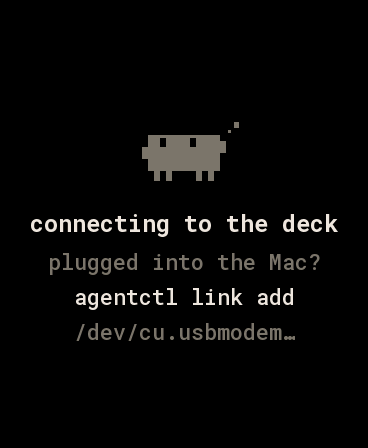
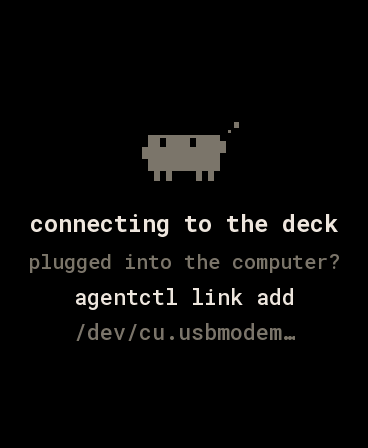
4" tiles: full titles beside the ladder; English sample phases; "the computer"
- The subagent ladder takes only its minis' width and the text beside it
  less padding, so 12-character titles ("checkout-api") fit.
- A workflow line too long for the tile falls back to its phase
  ("Search 2/5"); the bar shows where the run is.
- Boards say "the computer", not "the Mac", in their setup notices (the
  deck runs on Windows too).
- Sample workflow phases in tests, renders and docs are English (Search,
  Verify, Report, Critic).

Changed region(s): [[0.0598, 0.5625, 0.9266, 0.625]]

diff --git a/clients/flutter/agents_ui/test/agents_app_test.dart b/clients/flutter/agents_ui/test/agents_app_test.dart
@@ -617,7 +617,7 @@ void main() {
       },
       {
         'id': 'w2',
-        'title': 'find:auth · Suche',
+        'title': 'find:auth · Search',
         'type': 'workflow',
         'tool': 'Read',
       },
@@ -633,7 +633,7 @@ void main() {
     expect(find.text('workflow · 2 agents'), findsOneWidget);
     // In the crew list a workflow agent's phase is its kind.
     expect(find.text('find:auth'), findsOneWidget);
-    expect(find.text('Suche'), findsOneWidget);
+    expect(find.text('Search'), findsOneWidget);
     expect(tester.takeException(), isNull);
   });
 
@@ -718,13 +718,13 @@ void main() {
       'name': 'bughunt',
       'phases': [
         {'title': 'Scout', 'running': 0, 'done': 1},
-        {'title': 'Suche', 'running': 2, 'done': 3},
+        {'title': 'Search', 'running': 2, 'done': 3},
         {'title': 'Jury', 'running': 0, 'done': 0},
       ],
     };
     final a = Agent.fromJson(api);
     expect(a.workflow?.current, 1);
-    expect(a.workflow?.line, 'Suche 3/5 · 2 of 3');
+    expect(a.workflow?.line, 'Search 3/5 · 2 of 3');
     await _pumpApp(tester, FakeAgentsSource.fromState(j));
     expect(find.byKey(const Key('agent-tile-workflow')), findsOneWidget);
     // The segments have height: a bar, not a line of nothing.
@@ -734,7 +734,7 @@ void main() {
     );
     expect(seg, findsNWidgets(3));
     expect(tester.getSize(seg.first).height, greaterThan(0));
-    expect(find.text('Suche 3/5 · 2 of 3'), findsOneWidget);
+    expect(find.text('Search 3/5 · 2 of 3'), findsOneWidget);
     await _open(tester, 'checkout-api');
     expect(find.byKey(const Key('agent-workflow')), findsOneWidget);
     expect(find.text('Jury 0/0'), findsOneWidget);

diff --git a/clients/flutter/agents_ui/lib/src/agents_model.dart b/clients/flutter/agents_ui/lib/src/agents_model.dart
@@ -147,7 +147,7 @@ class AgentWorkflow {
     return i;
   }
 
-  /// "Suche 5/5 · 2 of 6": the tile's line while the run is on.
+  /// "Search 5/5 · 2 of 6": the tile's line while the run is on.
   String get line {
     final i = current;
     if (i < 0) return 'workflow · starting';

diff --git a/backend/internal/claude/workflow_test.go b/backend/internal/claude/workflow_test.go
@@ -21,9 +21,9 @@ func TestWorkflow(t *testing.T) {
   description: 'x',
   phases: [
     { title: 'Scout', detail: 'one' },
-    { title: 'Suche', detail: 'many' },
+    { title: 'Search', detail: 'many' },
     { title: 'Jury', detail: 'three each' },
-    { title: 'Kritiker' },
+    { title: 'Critic' },
   ],
 }
 const DIMENSIONS = [{ title: 'not a phase' }]
@@ -47,14 +47,14 @@ const DIMENSIONS = [{ title: 'not a phase' }]
 	write(`{"type":"launched"}`,
 		`{"type":"started","agentId":"a1","label":"scout","phase":"Scout"}`,
 		`{"type":"result","agentId":"a1","result":{}}`,
-		`{"type":"started","agentId":"b1","label":"find:x","phase":"Suche"}`,
-		`{"type":"started","agentId":"b2","label":"find:y","phase":"Suche"}`,
+		`{"type":"started","agentId":"b1","label":"find:x","phase":"Search"}`,
+		`{"type":"started","agentId":"b2","label":"find:y","phase":"Search"}`,
 		`{"type":"result","agentId":"b1","result":{}}`)
 	wf := Workflow(tr, time.Minute)
 	if wf == nil || wf.Name != "bughunt" {
 		t.Fatalf("workflow: %+v", wf)
 	}
-	want := []string{"Scout", "Suche", "Jury", "Kritiker"}
+	want := []string{"Scout", "Search", "Jury", "Critic"}
 	if len(wf.Phases) != len(want) {
 		t.Fatalf("phases: %+v", wf.Phases)
 	}
@@ -96,7 +96,7 @@ const DIMENSIONS = [{ title: 'not a phase' }]
 
 	// Agents "running" in a journal that hasn't moved for half an hour: the
 	// run died with the session; gone.
-	write(`{"type":"started","agentId":"z1","label":"stuck","phase":"Suche"}`)
+	write(`{"type":"started","agentId":"z1","label":"stuck","phase":"Search"}`)
 	stale := time.Now().Add(-40 * time.Minute)
 	if err := os.Chtimes(journal, stale, stale); err != nil {
 		t.Fatal(err)
@@ -112,9 +112,9 @@ const DIMENSIONS = [{ title: 'not a phase' }]
 	}
 	now := time.Now()
 	_ = os.Chtimes(journal, now, now)
-	write(`{"type":"started","agentId":"d1","label":"again","phase":"Suche"}`)
+	write(`{"type":"started","agentId":"d1","label":"again","phase":"Search"}`)
 	wf = Workflow(tr, time.Minute)
-	if wf == nil || wf.Name != "wf_1" || wf.Phases[0].Title != "Scout" || wf.Phases[1].Title != "Suche" || len(wf.Phases) != 3 {
+	if wf == nil || wf.Name != "wf_1" || wf.Phases[0].Title != "Scout" || wf.Phases[1].Title != "Search" || len(wf.Phases) != 3 {
 		t.Fatalf("without the script: %+v", wf)
 	}
 }
@@ -137,7 +137,7 @@ func TestWorkflowPhasesFromTheRunsScript(t *testing.T) {
 	}
 	src := `export const meta = {
   name: 'vier',
-  phases: [{ title: 'Scout' }, { title: 'Suche' }, { title: 'Prüfen' }, { title: 'Bericht' }],
+  phases: [{ title: 'Scout' }, { title: 'Search' }, { title: 'Verify' }, { title: 'Report' }],
 }
 `
 	if err := os.WriteFile(filepath.Join(scripts, "vier-wf_9.js"), []byte(src), 0o600); err != nil {
@@ -148,7 +148,7 @@ func TestWorkflowPhasesFromTheRunsScript(t *testing.T) {
 		t.Fatal(err)
 	}
 	wf := Workflow(tr, time.Minute)
-	if wf == nil || wf.Name != "vier" || len(wf.Phases) != 4 || wf.Phases[3].Title != "Bericht" {
+	if wf == nil || wf.Name != "vier" || len(wf.Phases) != 4 || wf.Phases[3].Title != "Report" {
 		t.Fatalf("phases from the run's script: %+v", wf)
 	}
 }

diff --git a/firmware/panel-core/src/layout_big.h b/firmware/panel-core/src/layout_big.h
@@ -597,7 +597,7 @@ static inline void tile(Canvas& c, const BigSpec& S, const Theme& T, const Agent
   // above them counts the rest. The session steps left to make room.
   int ladder = 0;
   if (a.subagents) {
-    ladder = d(36 + 2);
+    ladder = 18 * S.subScale + d(2);                // the minis' own width: the title keeps its room
     const int s = S.subScale, n = a.subCount ? (a.subCount < 4 ? a.subCount : 4) : 1;
     const int more = a.subagents - n;
     const int x = r.x + r.w - d(2) - 18 * s;
@@ -629,7 +629,7 @@ static inline void tile(Canvas& c, const BigSpec& S, const Theme& T, const Agent
   // Title (mono 16) at 30 + 92 x 13/18 + 14; then the status line, or a
   // running workflow's bar and line in its blue.
   const int titleTop = oy + d(30 + 92.f * 13 / 18 + 14);
-  const int tw = cw - 2 * d(10);
+  const int tw = cw - 2 * (ladder ? d(4) : d(10));
   auto centred = [&](const Font& f, int top, const char* t, uint16_t col) {
     const int w = textW(f, t) < tw ? textW(f, t) : (tw / f.cellW) * f.cellW;
     textAt(c, f, cx - w / 2, top, t, col, tw);
@@ -642,6 +642,10 @@ static inline void tile(Canvas& c, const BigSpec& S, const Theme& T, const Agent
     workflowBar(c, T, a, cx - bw / 2, y, bw, bh, fill, cc(k.meta), d(3) < 1 ? 1 : d(3));
     y += bh + d(5);
     wfLine(a, meta, sizeof meta);
+    const int cur = wfCurrent(a);
+    if (textW(*S.tileMeta, meta) > tw && cur >= 0)   // too long: the phase alone; the bar shows where it is
+      snprintf(meta, sizeof meta, "%s %u/%u", a.wf[cur].title, (unsigned)a.wf[cur].done,
+               (unsigned)(a.wf[cur].done + a.wf[cur].running));
     centred(*S.tileMeta, y, meta, cc(T.workflow));
   } else {
     metaLine(a, now, meta, sizeof meta, true);
@@ -1131,14 +1135,14 @@ static inline void drawBig(Canvas& c, const BigSpec& S, const Theme& T, const Pa
         if (n.problem) notice(c, S, T, Pose::Exit, n.title, nullptr, n.line1, n.line2, in.ms);
         else notice(c, S, T, Pose::Think, n.title, n.line1, nullptr, n.line2, in.ms);
       } else {
-        notice(c, S, T, Pose::Think, "connecting to the deck", "plugged into the Mac?", "agentctl link add <port>",
+        notice(c, S, T, Pose::Think, "connecting to the deck", "plugged into the computer?", "agentctl link add <port>",
                nullptr, in.ms);
       }
       if (tu) toast(c, S, T, tu->toast, true);
       return;
     case LinkState::Unapproved:
       snprintf(buf, sizeof buf, "agentctl devices approve %s", in.device && in.device[0] ? in.device : "<name>");
-      notice(c, S, T, Pose::Wait, "waiting for approval", "on the Mac, run", buf, nullptr, in.ms);
+      notice(c, S, T, Pose::Wait, "waiting for approval", "on the computer, run", buf, nullptr, in.ms);
       if (tu) toast(c, S, T, tu->toast, true);
       return;
     default: break;

diff --git a/firmware/panel-core/src/layout_square.h b/firmware/panel-core/src/layout_square.h
@@ -1288,7 +1288,7 @@ static inline void drawSquare(Canvas& c, const SquareSpec& S, const Theme& T, co
         notice(c, S, T, n.problem ? Pose::Exit : Pose::Think, T.dim, n.title, n.line1, n.problem ? T.accent : T.dim,
                n.line2, T.dim, nullptr, T.dim, in.ms);
       } else {
-        notice(c, S, T, Pose::Think, T.dim, "connecting to the deck", "plugged into the Mac?", T.dim,
+        notice(c, S, T, Pose::Think, T.dim, "connecting to the deck", "plugged into the computer?", T.dim,
                "agentctl link add", T.ink, "/dev/cu.usbmodem\xE2\x80\xA6", T.dim, in.ms);
       }
       if (tu) toastPill(c, S, T, tu->toast, true);
@@ -1297,10 +1297,10 @@ static inline void drawSquare(Canvas& c, const SquareSpec& S, const Theme& T, co
     case LinkState::Unapproved:
       snprintf(buf, sizeof buf, "approve %s", name);
       if (textW(*S.body, buf) <= S.w - 2 * S.m)
-        notice(c, S, T, Pose::Wait, T.ink, "waiting for approval", "on the Mac:", T.dim, "agentctl devices", T.ink, buf,
+        notice(c, S, T, Pose::Wait, T.ink, "waiting for approval", "on the computer:", T.dim, "agentctl devices", T.ink, buf,
                T.accent, in.ms);
       else                                          // a long name gets a line of its own
-        notice(c, S, T, Pose::Wait, T.ink, "waiting for approval", "on the Mac:", T.dim, "agentctl devices approve",
+        notice(c, S, T, Pose::Wait, T.ink, "waiting for approval", "on the computer:", T.dim, "agentctl devices approve",
                T.ink, name, T.accent, in.ms);
       if (tu) toastPill(c, S, T, tu->toast, true);
       if (S.cornerR) cornerMask(c, S.cornerR);

diff --git a/firmware/panel-core/sim/render.cpp b/firmware/panel-core/sim/render.cpp
@@ -246,7 +246,7 @@ static int renderBig(const std::string& dir, const BigSpec& S, const char* devic
       Agent& a = wf.fleet.agents[i];
       snprintf(a.wfName, sizeof a.wfName, "bughunt");
       a.wfCount = 4;
-      const struct { const char* t; uint8_t run, done; } kPh[] = {{"Scout", 0, 3}, {"Suche", 3, 2}, {"Jury", 0, 0}, {"Bericht", 0, 0}};
+      const struct { const char* t; uint8_t run, done; } kPh[] = {{"Scout", 0, 3}, {"Search", 3, 2}, {"Jury", 0, 0}, {"Report", 0, 0}};
       for (int k = 0; k < 4; k++) {
         snprintf(a.wf[k].title, sizeof a.wf[k].title, "%s", kPh[k].t);
         a.wf[k].running = kPh[k].run;
@@ -257,7 +257,7 @@ static int renderBig(const std::string& dir, const BigSpec& S, const char* devic
       const char* kTools[] = {"Grep", "Read", "Bash", "Grep"};
       for (int k = 0; k < 4; k++) {
         Subagent& s = a.subs[k];
-        snprintf(s.title, sizeof s.title, "find:%s" DECK_DOT "Suche", k == 0 ? "auth" : k == 1 ? "billing" : k == 2 ? "queue" : "retry");
+        snprintf(s.title, sizeof s.title, "find:%s" DECK_DOT "Search", k == 0 ? "auth" : k == 1 ? "billing" : k == 2 ? "queue" : "retry");
         snprintf(s.type, sizeof s.type, "workflow");
         snprintf(s.tool, sizeof s.tool, "%s", kTools[k]);
         s.startedAt = now - 40 - 25 * k;

diff --git a/firmware/devices/t4s3-panel/src/ui.c b/firmware/devices/t4s3-panel/src/ui.c
@@ -981,7 +981,7 @@ static void draw_note(const agents_t *s)
 	switch (s->link) {
 	case LINK_NOT_APPROVED:
 		lv_label_set_text(note_title, "not approved yet");
-		snprintf(b, sizeof b, "on the Mac, run:\n\nagentctl devices approve\n    %s\n\nand to answer from here:\n\nagentctl devices scope\n    %s act",
+		snprintf(b, sizeof b, "on the computer, run:\n\nagentctl devices approve\n    %s\n\nand to answer from here:\n\nagentctl devices scope\n    %s act",
 			 s->device_name, s->device_name);
 		break;
 	case LINK_OFFLINE:
@@ -990,7 +990,7 @@ static void draw_note(const agents_t *s)
 		break;
 	default:
 		lv_label_set_text(note_title, "waiting for the deck");
-		snprintf(b, sizeof b, "on the Mac, run:\n\nagentctl link add <port>\n\n(agentctl link ports lists it)");
+		snprintf(b, sizeof b, "on the computer, run:\n\nagentctl link add <port>\n\n(agentctl link ports lists it)");
 	}
 	lv_label_set_text(note_body, b);
 	lv_obj_align_to(note_body, note_title, LV_ALIGN_OUT_BOTTOM_LEFT, 0, 24);

diff --git a/backend/internal/claude/sessions_test.go b/backend/internal/claude/sessions_test.go
@@ -130,7 +130,7 @@ func TestSubagents(t *testing.T) {
 	}
 	for name, body := range map[string]string{
 		"agent-w1.jsonl":     toolCall + "\n",
-		"agent-w1.meta.json": `{"agentType":"workflow-subagent","description":"find:auth","workflowPhase":"Suche","model":"sonnet"}`,
+		"agent-w1.meta.json": `{"agentType":"workflow-subagent","description":"find:auth","workflowPhase":"Search","model":"sonnet"}`,
 	} {
 		if err := os.WriteFile(filepath.Join(wfDir, name), []byte(body), 0o600); err != nil {
 			t.Fatal(err)
@@ -148,7 +148,7 @@ func TestSubagents(t *testing.T) {
 		}
 	}
 	for _, x := range subs {
-		if x.ID == "w1" && (x.Type != WorkflowAgent || x.Title != "find:auth · Suche" || x.Tool != "Grep") {
+		if x.ID == "w1" && (x.Type != WorkflowAgent || x.Title != "find:auth · Search" || x.Tool != "Grep") {
 			t.Fatalf("workflow agent: %+v", x)
 		}
 	}

diff --git a/backend/internal/link/parity_test.go b/backend/internal/link/parity_test.go
@@ -134,7 +134,7 @@ func TestAgentParity(t *testing.T) {
 		Context: model.Context{Used: 5, Window: 10}, CostUSD: 1.5, Turns: 2, Focused: true, Attached: true, Resumable: true,
 		Lost: true, Unseen: true, External: true, App: "orca", Hat: &model.Hat{Shape: "cap", Color: "teal", Auto: true}, Account: &model.Account{Name: "work", Color: "yellow"},
 		Subagents: []model.Subagent{{ID: "s", Title: "sub", Type: "Explore", Tool: "Grep"}}, StartedAt: now, UpdatedAt: now,
-		Workflow: &model.Workflow{Name: "hunt", Phases: []model.WorkflowPhase{{Title: "Scout", Done: 1}, {Title: "Suche", Running: 2}}}}
+		Workflow: &model.Workflow{Name: "hunt", Phases: []model.WorkflowPhase{{Title: "Scout", Done: 1}, {Title: "Search", Running: 2}}}}
 	p := toPB(full, 1|2|4|8).ProtoReflect()
 	var missing []string
 	for i := range desc.Fields().Len() {

diff --git a/firmware/devices/t4s3-panel/src/link.c b/firmware/devices/t4s3-panel/src/link.c
@@ -112,7 +112,7 @@ static void on_result(deck_link_t *ctx, uint32_t seq, uint32_t code, const char 
 	switch (code) {
 	case 200:
 	case 204: snprintf(msg, sizeof msg, "done"); break;
-	case 403: snprintf(msg, sizeof msg, "not allowed yet; on the Mac: agentctl devices scope %s act", s->device_name); break;
+	case 403: snprintf(msg, sizeof msg, "not allowed yet; on the computer: agentctl devices scope %s act", s->device_name); break;
 	case 409: snprintf(msg, sizeof msg, "the prompt changed"); break;
 	default: snprintf(msg, sizeof msg, "%s", error && error[0] ? error : "failed");
 	}

diff --git a/firmware/panel-core/src/deck_ui.h b/firmware/panel-core/src/deck_ui.h
@@ -76,7 +76,7 @@ static inline int wfCurrent(const Agent& a) {
   return -1;
 }
 
-// "Suche 5/5 · 2 of 6": the tile's line while the run is on (AgentWorkflow.line).
+// "Search 5/5 · 2 of 6": the tile's line while the run is on (AgentWorkflow.line).
 static inline void wfLine(const Agent& a, char* out, size_t cap) {
   const int i = wfCurrent(a);
   if (i < 0) { snprintf(out, cap, "workflow" DECK_DOT "starting"); return; }

diff --git a/docs/features.md b/docs/features.md
@@ -16,7 +16,7 @@ One tile per agent, on a 4×4 deck: the same board in the menu bar, on the desk 
 - **Ready.** An agent that finished but whose result you haven't reviewed says "ready", with sliding orange stripes on its tile and open card and a critter chomping at a cookie, until you focus its terminal or give it a new task.
 - **Subagents.** Subagents at work climb the tile's right edge: a small critter each, in the session's colour and hat, posed by what it is doing (reading, editing, in the shell), the newest on top; four fit, a "+N" above them counts the rest, and the session steps a little left to make room. The agent's card lists the crew under its title: a line per subagent with its critter, what it was sent to do, its kind (Explore, general, fork; a workflow agent's phase) and the tool it is in; as many lines as the card has room for, then "+N more". A session whose
   turn is over while its subagents go on (background agents) shows "N subagents working" until their
-  transcripts go quiet, and a subagent's permission prompt shows on the session like its own. A workflow (the Workflow tool, `/workflows`) gets a bar of its own on the tile, one segment per phase in the script's order, done phases dimmed, the running one lit in blue, under it "Suche 5/5 · 2 of 6"; the card lists the phases with their counts, and each of the workflow's agents by its label and phase. The tile's own colour (working, needs you) stays what it is: the bar is the workflow, the tile is the session.
+  transcripts go quiet, and a subagent's permission prompt shows on the session like its own. A workflow (the Workflow tool, `/workflows`) gets a bar of its own on the tile, one segment per phase in the script's order, done phases dimmed, the running one lit in blue, under it "Search 5/5 · 2 of 6"; the card lists the phases with their counts, and each of the workflow's agents by its label and phase. The tile's own colour (working, needs you) stays what it is: the bar is the workflow, the tile is the session.
 - **Pages.** The deck holds 16 agents per page (page = slot ÷ 16). With more, the tiles get a little shorter (they keep their width) and a row of bars appears under the grid, in the same square: the current page bright, another page orange when an agent there needs you. Swipe left and right (touch or trackpad), use ← / →, or tap a bar.
 - **Arranging.** Drag a tile onto any free spot to move it there, or onto another tile to swap them (long-press on touch screens). The layout is shared by every view and survives a restart of the daemon: agents it started are saved with their slot, and agents it mirrors (watched sessions, Codex threads) go back to where they sat when they show up again (`slots.json` next to the registry). `agentctl move <agent> <n>` does the same from the terminal.
 
